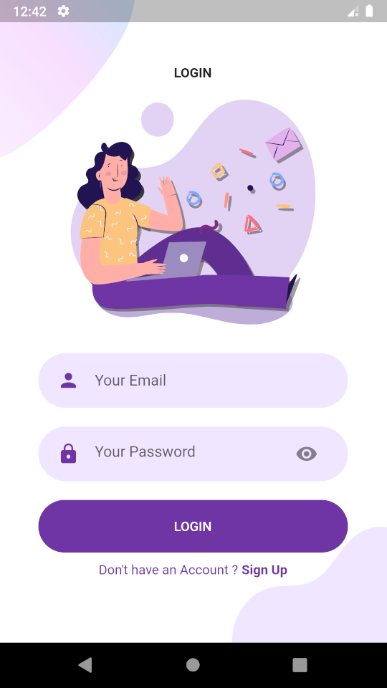
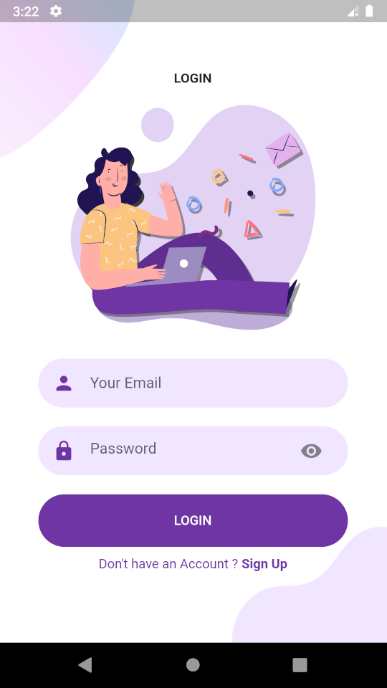
Signup screen completed

diff --git a/lib/Screens/SignUp/components/body.dart b/lib/Screens/SignUp/components/body.dart
@@ -1,0 +1,77 @@
+import 'package:flutter/material.dart';
+import 'package:flutter_svg/flutter_svg.dart';
+
+import './background.dart';
+import '../../../components/rounded_input_field.dart';
+import '../../../components/rounded_password_field.dart';
+import '../../../components/rounded_button.dart';
+import 'package:login_ui/Screens/Login/login_screen.dart';
+import 'package:login_ui/components/already_have_an_account.dart';
+
+import 'or_divider.dart';
+import 'social_icon.dart';
+
+class Body extends StatelessWidget {
+  final Widget child;
+
+  const Body({
+    Key key,
+    this.child,
+  }) : super(key: key);
+
+  @override
+  Widget build(BuildContext context) {
+    Size size = MediaQuery.of(context).size;
+    return Background(
+      child: SingleChildScrollView(
+        child: Column(
+          mainAxisAlignment: MainAxisAlignment.center,
+          children: [
+            Text(
+              'Sign Up',
+              style: TextStyle(fontWeight: FontWeight.bold),
+            ),
+            SizedBox(
+              height: size.height * 0.02,
+            ),
+            SvgPicture.asset(
+              'assets/icons/signup.svg',
+              height: size.height * 0.35,
+            ),
+            RoundedInputField(
+              hintText: 'Email',
+            ),
+            RoundedPasswordField(),
+            // RoundedPasswordField(),
+            RoundedButton(
+              text: 'SignUp',
+            ),
+            AlreadyHaveAnAccountCheck(
+              login: false,
+              press: () {
+                return Navigator.push(
+                  context,
+                  MaterialPageRoute(
+                    builder: (context) {
+                      return LoginScreen();
+                    },
+                  ),
+                );
+              },
+            ),
+            OrDivider(),
+            Row(
+              mainAxisAlignment: MainAxisAlignment.center,
+              children: [
+                SocialIcon(
+                  iconSrc: 'assets/icons/google-plus.svg',
+                  press: () {},
+                ),
+              ],
+            )
+          ],
+        ),
+      ),
+    );
+  }
+}

diff --git a/lib/Screens/SignUp/components/background.dart b/lib/Screens/SignUp/components/background.dart
@@ -1,0 +1,41 @@
+import 'package:flutter/material.dart';
+
+class Background extends StatelessWidget {
+  const Background({
+    Key key,
+    @required this.child,
+  }) : super(key: key);
+
+  final Widget child;
+
+  @override
+  Widget build(BuildContext context) {
+    Size size = MediaQuery.of(context).size;
+    return Container(
+      width: double.infinity,
+      height: size.height,
+      child: Stack(
+        alignment: Alignment.center,
+        children: [
+          Positioned(
+            top: 0,
+            left: 0,
+            child: Image.asset(
+              'assets/images/signup_top.png',
+              width: size.width * 0.3,
+            ),
+          ),
+          Positioned(
+            bottom: 0,
+            left: 0,
+            child: Image.asset(
+              'assets/images/main_bottom.png',
+              height: size.height * 0.2,
+            ),
+          ),
+          child,
+        ],
+      ),
+    );
+  }
+}

diff --git a/lib/Screens/Login/components/body.dart b/lib/Screens/Login/components/body.dart
@@ -1,5 +1,6 @@
 import 'package:flutter/material.dart';
 import 'package:flutter_svg/flutter_svg.dart';
+import 'package:login_ui/Screens/SignUp/signup_screen.dart';
 import 'package:login_ui/components/already_have_an_account.dart';
 import 'package:login_ui/components/rounded_button.dart';
 import '../../../components/rounded_password_field.dart';
@@ -48,7 +49,19 @@ class Body extends StatelessWidget {
               text: 'LOGIN',
               press: () {},
             ),
-            AlreadyHaveAnAccountCheck(),
+            AlreadyHaveAnAccountCheck(
+              login: true,
+              press: () {
+                return Navigator.push(
+                  context,
+                  MaterialPageRoute(
+                    builder: (context) {
+                      return SignupScreen();
+                    },
+                  ),
+                );
+              },
+            ),
           ],
         ),
       ),

diff --git a/lib/Screens/SignUp/components/social_icon.dart b/lib/Screens/SignUp/components/social_icon.dart
@@ -1,0 +1,36 @@
+import 'package:flutter/material.dart';
+import 'package:flutter_svg/flutter_svg.dart';
+
+import '../../../constant.dart';
+
+class SocialIcon extends StatelessWidget {
+  final String iconSrc;
+  final Function press;
+  const SocialIcon({
+    Key key,
+    this.iconSrc,
+    this.press,
+  }) : super(key: key);
+
+  @override
+  Widget build(BuildContext context) {
+    return GestureDetector(
+      onTap: press,
+      child: Container(
+        padding: EdgeInsets.all(20),
+        decoration: BoxDecoration(
+          border: Border.all(
+            width: 2,
+            color: kPrimaryLightColor,
+          ),
+          shape: BoxShape.circle,
+        ),
+        child: SvgPicture.asset(
+          iconSrc,
+          height: 20,
+          width: 20,
+        ),
+      ),
+    );
+  }
+}

diff --git a/lib/Screens/welcome/components/body.dart b/lib/Screens/welcome/components/body.dart
@@ -1,6 +1,7 @@
 import 'package:flutter/material.dart';
 import 'package:flutter_svg/flutter_svg.dart';
 import 'package:login_ui/Screens/Login/login_screen.dart';
+import 'package:login_ui/Screens/SignUp/signup_screen.dart';
 import '../../../components/rounded_button.dart';
 import './background.dart';
 
@@ -43,7 +44,14 @@ class Body extends StatelessWidget {
           ),
           RoundedButton(
             text: 'SignUp',
-            press: () {},
+            press: () {
+              Navigator.push(
+                context,
+                MaterialPageRoute(builder: (context) {
+                  return SignupScreen();
+                }),
+              );
+            },
             textcolor: Colors.black,
           ),
         ],

diff --git a/lib/Screens/SignUp/components/or_divider.dart b/lib/Screens/SignUp/components/or_divider.dart
@@ -1,0 +1,31 @@
+import 'package:flutter/material.dart';
+
+class OrDivider extends StatelessWidget {
+  @override
+  Widget build(BuildContext context) {
+    Size size = MediaQuery.of(context).size;
+    return Container(
+      margin: EdgeInsets.symmetric(vertical: size.height * 0.02),
+      width: size.width * 0.8,
+      child: Row(
+        children: [
+          buildExpanded(),
+          Text(
+            'OR',
+            style: TextStyle(fontWeight: FontWeight.w600),
+          ),
+          buildExpanded(),
+        ],
+      ),
+    );
+  }
+
+  Expanded buildExpanded() {
+    return Expanded(
+      child: Divider(
+        color: Color(0xFFD9D9D9),
+        height: 1.5,
+      ),
+    );
+  }
+}

diff --git a/lib/components/text_field_container.dart b/lib/components/text_field_container.dart
@@ -14,8 +14,8 @@ class TextFieldContainer extends StatelessWidget {
     Size size = MediaQuery.of(context).size;
     return Container(
       padding: EdgeInsets.symmetric(
-        horizontal: 20,
-        vertical: 5,
+        horizontal: 15,
+        vertical: 2,
       ),
       margin: EdgeInsets.symmetric(vertical: 10),
       width: size.width * 0.8,

diff --git a/lib/components/rounded_password_field.dart b/lib/components/rounded_password_field.dart
@@ -16,7 +16,7 @@ class RoundedPasswordField extends StatelessWidget {
         onChanged: onChanged,
         obscureText: true,
         decoration: InputDecoration(
-            hintText: 'Your Password',
+            hintText: 'Password',
             icon: Icon(
               Icons.lock,
               color: kPrimaryColor,

diff --git a/lib/Screens/SignUp/signup_screen.dart b/lib/Screens/SignUp/signup_screen.dart
@@ -1,0 +1,12 @@
+import 'package:flutter/material.dart';
+
+import './components/body.dart';
+
+class SignupScreen extends StatelessWidget {
+  @override
+  Widget build(BuildContext context) {
+    return Scaffold(
+      body: Body(),
+    );
+  }
+}

diff --git a/lib/components/already_have_an_account.dart b/lib/components/already_have_an_account.dart
@@ -1,5 +1,4 @@
 import 'package:flutter/material.dart';
-import 'package:login_ui/Screens/welcome/welcome_screen.dart';
 
 import '../constant.dart';
 

diff --git a/README.md b/README.md
@@ -3,3 +3,4 @@
 ### Output
 ![Output1 image](output1.png)
 ![Output2 image](output2.png)
+![Output2 image](output3.png)
